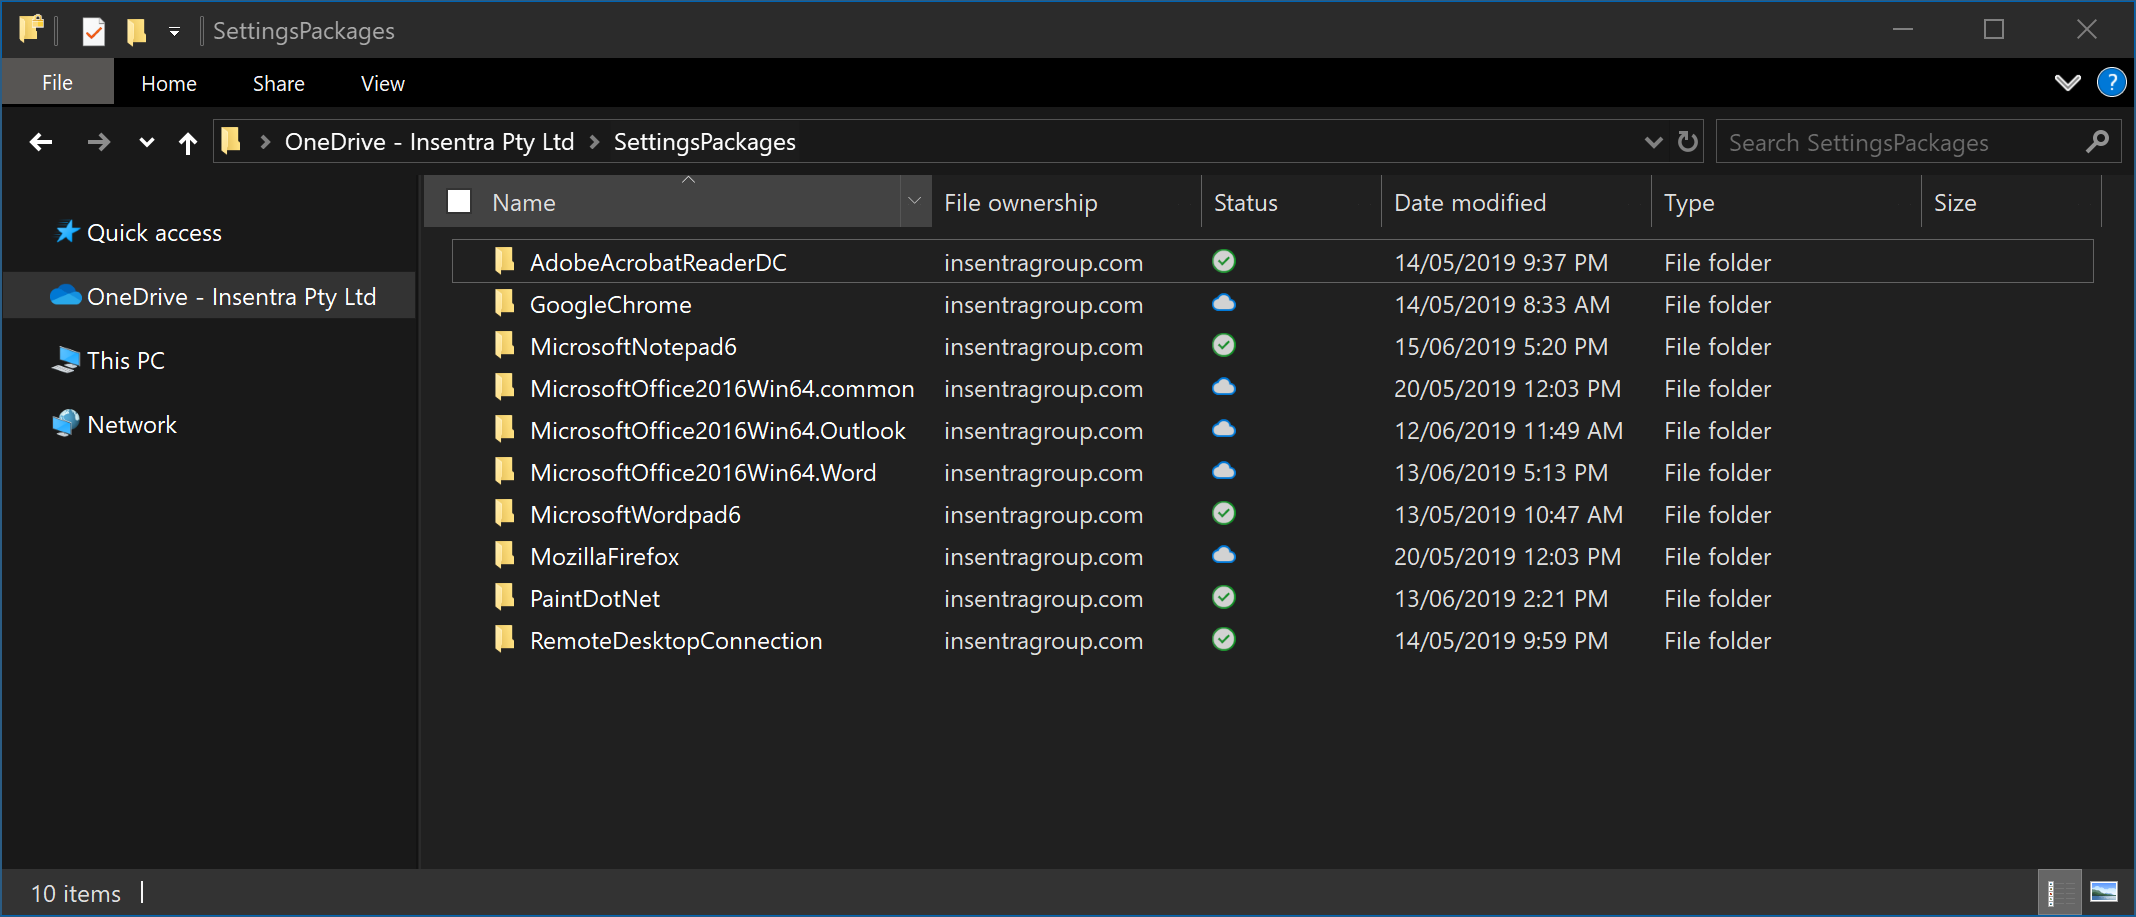
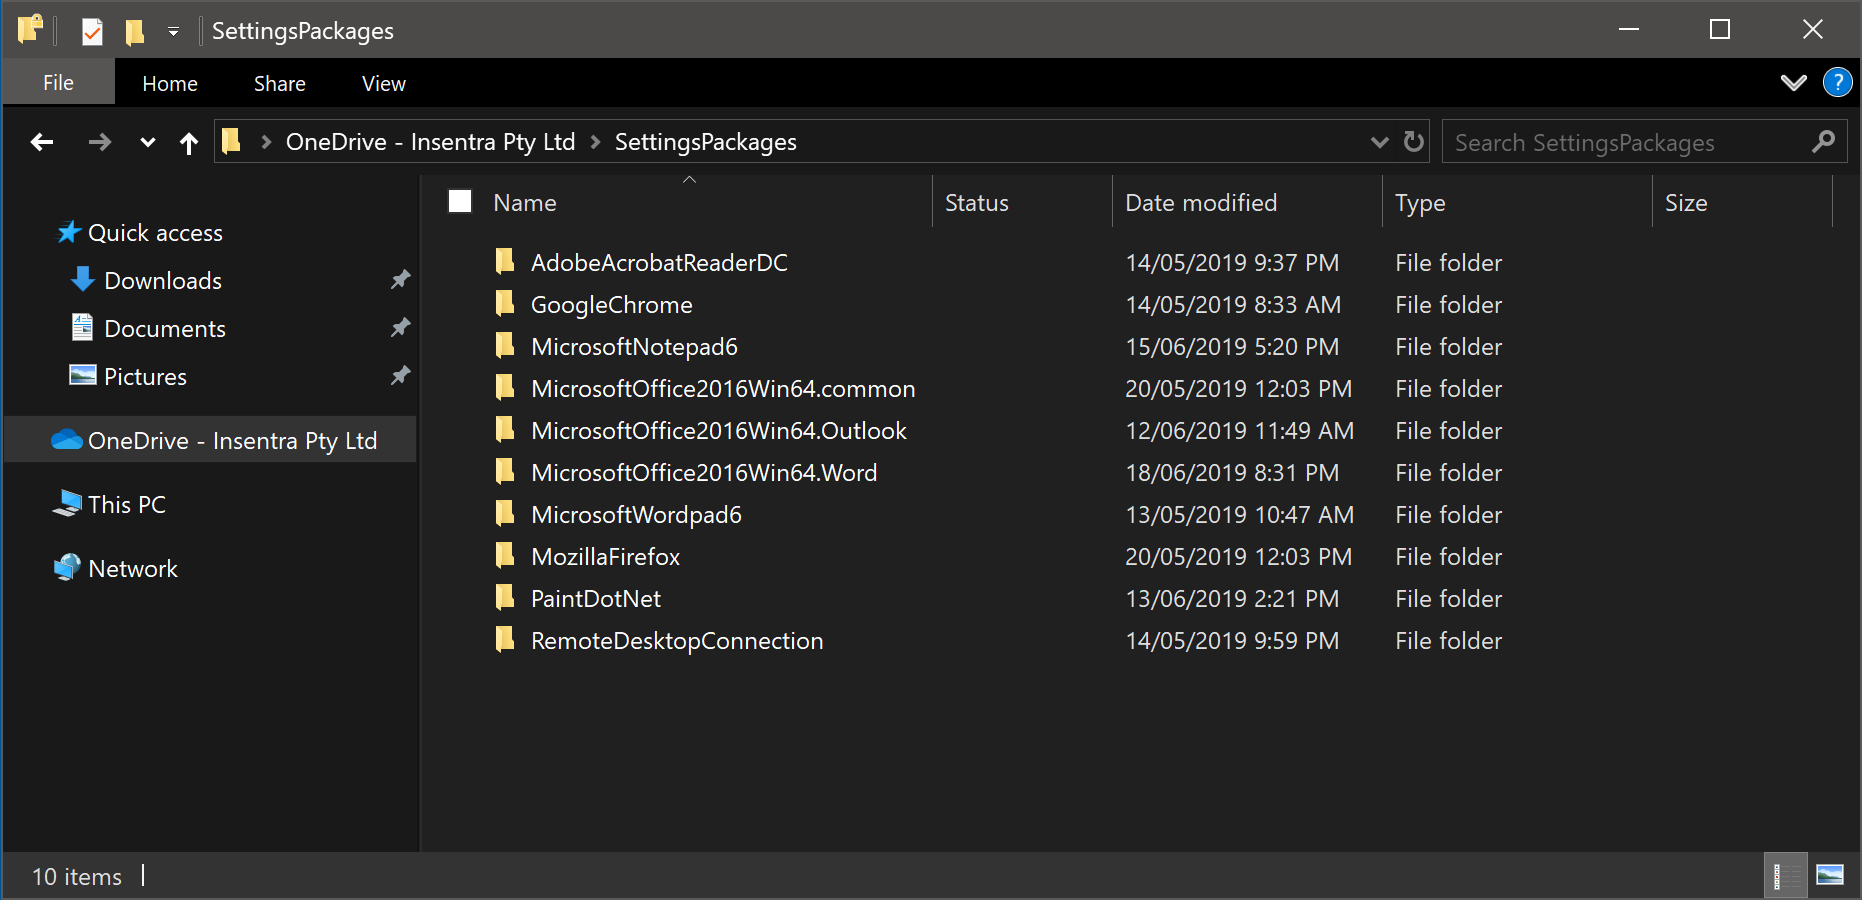
Add UE-V article

diff --git a/_posts/2019-06-18-user-experience-virtualzation-intune.md b/_posts/2019-06-18-user-experience-virtualzation-intune.md
@@ -1,0 +1,155 @@
+---
+layout: post
+title: Manage User Experience Virtualization on the Modern Desktop
+date: 2019-06-19 23:00 +1000
+permalink: "/user-experience-virtualzation-intune/"
+categories:
+- Microsoft
+tags:
+- Intune
+- User Experience Virtualization
+- OneDrive
+- PowerShell
+---
+On the modern Windows 10 desktop with Office 365 and Azure AD Premium, application preferences are roamed by two components - the Office 2013+ desktop applications [roam settings when used with Office 365](https://docs.microsoft.com/en-us/previous-versions/office/office-2013-resource-kit/jj733593\(v=office.15\)#roaming-settings-for-office-2013) and when enabled, Enterprise State Roaming [synchronises specific settings](https://docs.microsoft.com/en-us/azure/active-directory/devices/enterprise-state-roaming-faqs).
+
+Before you ask - yes, [User Experience Virtualization](https://docs.microsoft.com/en-us/windows/configuration/ue-v/uev-for-windows) is still a thing. UE-V is a component of Windows 10 Enterprise that can roam a user's application preferences across desktops. UE-V works by defining user profile locations specific to an application and importing and exporting those settings into and out of the profile at login /logout or application launch / close.
+
+## Why
+
+User-driven device provisioning can make a Windows 10 PC, provisioned via Windows Autopilot, ready for the user in about an hour. This includes their applications, and preferences I've covered above.
+
+When a user signs into a new PC, their key Windows and Office settings will sync, but not preferences for any application that Enterprise State Roaming does not manage.
+
+Application preferences *not* roaming to a newly provisioned PC is likely to be a disruptive experience. User Experience Virtualization can be configured to roam those application settings even in a modern management scenario.
+
+Consider a common example such as Google Chrome. Chrome implements its own sync mechanism via Google accounts, but this often means that users will log into Chrome with their personal Google accounts. Further, Chrome and ChromeOS can be managed via [Chrome Enterprise](https://cloud.google.com/chrome-enterprise/browser-management/) where it is possible to use Azure AD as the IdP source. The browser can then be managed across your PC estate; however, this requires a licensing cost. If Google isn't a strategic play, then UE-V can capture Chrome settings and ensure a consistent experience across managed Windows 10 devices.
+
+## How 
+
+Azure AD-join and Autopilot enable a consistent provisioning experience for Windows 10 PCs regardless of location, but unlike a traditional domain-joined PC, you lose management features including Group Policy. UE-V would typically be [enabled with Group Policy](https://docs.microsoft.com/en-us/windows/configuration/ue-v/uev-deploy-required-features#enable-the-ue-v-service) and [a file share](https://docs.microsoft.com/en-us/windows/configuration/ue-v/uev-deploy-required-features#deploy-a-ue-v-settings-storage-location), but our target PCs are often not used within the corporate network, so synchronising application preferences between PCs requires another mechanism. Additionally we need to re-think enabling UE-V on the end-point and delivering UE-V templates to those devices.
+
+### OneDrive for Business as a Sync Mechanism
+
+Most organisations [we](https://www.insentra.com.au/) see deploying Windows 10 in a modern management context with Microsoft Intune are also Office 365 customers. This naturally makes OneDrive for Business available as a sync mechanism and it's [a solution that Microsoft even mentions in the UE-V documentation](https://docs.microsoft.com/en-us/windows/configuration/ue-v/uev-sync-methods). Any enterprise file and sync solution could be used including Citrix ShareFile or Dropbox.
+
+### Managing UE-V with Microsoft Intune
+
+To manage UE-V on Windows 10 PCs via Microsoft Intune, we need to implement a few things:
+
+1. Windows 10 Enterprise - UE-V is only a feature of Windows 10 Enterprise devices. This might be implemented by Intune via the [Upgrade Windows 10 Edition configuration profile](https://docs.microsoft.com/en-us/intune/edition-upgrade-configure-windows-10) or via a Microsoft 365 / Windows 10 Enterprise E3/E5 license
+2. A PowerShell script to enable the UE-V service and configure a scheduled task to download the UE-V templates
+3. A public HTTPS location to host UE-V templates. In my test configuration, I've used an Azure Storage Account so that I can use the [`List Containers`](https://docs.microsoft.com/en-us/rest/api/storageservices/list-containers2) API to query the storage for the templates to download
+
+To this end, I've written [a script to enable UE-V](https://github.com/aaronparker/Intune-Scripts/tree/master/Uev) on managed PCs and setup [a second script](https://github.com/aaronparker/uev/tree/master/scripts) that runs as a scheduled task to download the UE-V templates.
+
+## Deploy the UE-V script via Intune
+
+`New-UevTask.ps1` has been written to initiate the deployment by downloading a second script from blob storage on an Azure Storage account and register a scheduled task that runs the second script to download the UE-V templates.
+
+Deploy the script from Intune and ensure that it runs in the System context:
+
+![Adding the UE-V deployment script via Intune]({{site.baseurl}}/media/2019/06/UevPowerShellScriptIntune.png)
+
+`New-UevTask.ps1` has a `-Uri` parameter that will need to be changed to target a storage account that you manage.
+
+When the script runs on an end-point, it will register the schedule task and run it so that UE-V is enabled.
+
+## UE-V Scheduled Task
+
+`Set-Uev.ps1` is executed by the scheduled task and ensures that the UE-V service is running, configures UE-V to use OneDrive as the sync engine and downloads a set of UE-V templates from blob storage on an Azure Storage account.
+
+`Set-Uev.ps1` also has a `-Uri` parameter that will need to be changed to target a storage account that you manage, that hosts your UE-V templates.
+
+The scheduled task will be located in `Microsoft\UEV` folder:
+
+![UE-V Scheduled Task]({{site.baseurl}}/media/2019/06/UevScheduledTask.png)
+
+The challenge with this approach is that the UE-V service requires a reboot after being enabled. Because PowerShell scripts are not currently [tracked by the Enrollment Status Page](https://docs.microsoft.com/en-us/windows/deployment/windows-autopilot/enrollment-status#installation-progress-tracking), the service will only be enabled after the user signs into the device. An alternative approach would be to create a custom Windows Installer package that enables the service and the scheduled task instead.
+
+## UE-V via OneDrive
+
+The UE-V configuration settings enabled by `Set-Uev.ps` have been sourced from [Settings and data roaming FAQ](https://docs.microsoft.com/en-us/azure/active-directory/devices/enterprise-state-roaming-faqs) and [Set-UevConfiguration](https://docs.microsoft.com/en-us/powershell/module/uev/set-uevconfiguration?view=win10-ps).
+
+| Setting | Value | Notes |
+|:--|:--|:--|
+| Computer | True | Applies the settings to all users on the computer. |
+| DisableSyncProviderPing | True | Disables the synchronization provider from pinging the network. Not needed for OneDrive.  |         
+| DisableSyncUnlistedWindows8Apps | True | Disables the synchronization of unlisted Windows Store apps. Assuming ESR is used |
+| EnableDontSyncWindows8AppSettings | True | UE-V does not synchronize Windows Store app settings. Assuming ESR is used |
+| EnableSettingsImportNotify | True | If the settings import takes longer than the amount of time that you specify for the SettingsImportNotifyDelayInSecond parameter, UE-V notifies the user |
+| EnableSync | True | UE-V synchronizes the settings that are defined in the settings location templates that you have enabled |
+| EnableWaitForSyncOnApplicationStart | True | Ensures that application settings are synced locally and imported before starting the app |
+| SettingsStoragePath | %OneDriveCommercial% | Specifies the path of the location where UE-V stores the user settings |
+| SyncMethod | External | Tells UE-V that OneDrive will manage sync |
+| WaitForSyncTimeoutInMilliseconds | 2000 | This is the default wait timeout value. Test various network scenarios before increasing |
+
+With `%OneDrive%` or `%OneDriveCommercial%` as the target UE-V Settings Storage Path, the user's OneDrive sync folder will host a `SettingsPackages` folder that contains application settings.
+
+![UE-V Settings Packages folder in OneDrive]({{site.baseurl}}/media/2019/06/UevSettingsInOneDrive.png)
+
+With OneDrive Files On Demand, settings packages will download as applications are launched. The folder can be set to [always offline with the `attrib` command](https://techcommunity.microsoft.com/t5/Microsoft-OneDrive-Blog/OneDrive-Files-On-Demand-For-The-Enterprise/ba-p/117234).
+
+## Continuous Deployment to Azure Blob Storage
+
+As a location for storing scripts and UE-V templates, Azure Blob storage enables us to create a continuous deployment solution for new UE-V templates and updates to the `Set-Uev.ps1` script.
+
+To perform some basic validation and upload templates and scripts to Azure blob storage, I've setup a continuous deployment solution using GitHub and AppVeyor. You can see how this process works by taking look at my [UE-V repository on GitHub](https://github.com/aaronparker/uev).
+
+The code in the repository manages the process via several components:
+
+1. [Templates](https://github.com/aaronparker/uev/tree/master/templates). These are the UE-V templates that define application settings, created with the [UE-V Generator](https://docs.microsoft.com/en-us/windows/configuration/ue-v/uev-working-with-custom-templates-and-the-uev-generator).
+2. [`Set-Uev.ps1`](https://github.com/aaronparker/uev/tree/master/scripts). The script that enables UE-V and downloads templates on the Windows 10 Enterprise end-point
+3. [AppVeyor project configuration file](https://github.com/aaronparker/uev/blob/master/appveyor.yml). This defines the [AppVeyor project](https://www.appveyor.com/docs/build-configuration/) that runs validation on the UE-V templates and the `Set-Uev.ps1`. If validation is successful, the [artefacts are uploaded to Azure](https://www.appveyor.com/docs/deployment/azure-blob/)
+4. [Tests](https://github.com/aaronparker/uev/tree/master/tests). AppVeyor executes a set of PowerShell scripts that run Pester tests on `Set-Uev.ps1` and validates the UE-V templates against the [schema](https://docs.microsoft.com/en-us/windows/configuration/ue-v/uev-application-template-schema-reference)
+
+Each time a commit and push is made to the repository, [AppVeyor will run tests to validate](https://ci.appveyor.com/project/aaronparker/uev) the templates and script and if successful, upload to Azure blog storage.
+
+![AppVeyor tests output]({{site.baseurl}}/media/2019/06/AppVeyorOutput.png)
+
+### Azure Blob Storage Configuration
+
+For this configuration, I've created an [Azure storage account](https://docs.microsoft.com/en-us/azure/storage/common/storage-account-overview) to store the files on [blob storage](https://docs.microsoft.com/en-us/azure/storage/blobs/storage-blobs-introduction). Microsoft provides [5 GB of blob storage free for 12-months](https://azure.microsoft.com/en-gb/free/free-account-faq/), so it's simple to get started.
+
+In my lab environment, I've created two containers - one for the UE-V templates and another to store scripts. 
+
+![Azure blob storage containers]({{site.baseurl}}/media/2019/06/AzureBlobContainers.png)
+
+[Anonymous read access](https://docs.microsoft.com/en-us/azure/storage/blobs/storage-manage-access-to-resources) is enabled on each of these containers, so that `Set-Uev.ps1` and the UE-V templates can be downloaded on end-points, without having to storage secure access keys in each PowerShell script. 
+
+![Azure blob storage container access level configuration]({{site.baseurl}}/media/2019/06/AzureBlobContainerAccessLevel.png) 
+
+To allow AppVeyor to upload to these containers, storage account [access keys can be encrypted](https://www.appveyor.com/docs/how-to/secure-files/). My `appveyor.yml` file contains provider settings that define the Azure blob storage containers and the secured access keys.
+
+```yaml
+- provider: AzureBlob
+  storage_account_name: stealthpuppy
+  storage_access_key:
+    secure: No4/BI8lrkv/775GwkL82PPYuaX1hzYa
+  container: uevtemplates
+  artifact: templates
+  unzip: true
+  set_content_type: true
+  on:
+    branch: master
+- provider: AzureBlob
+  storage_account_name: stealthpuppy
+  storage_access_key:
+    secure: No4/BI8lrkv/775GwkL82PPYuaX1hzYa
+  container: scripts
+  artifact: scripts
+  unzip: true
+  set_content_type: false
+  on:
+    branch: master
+```
+
+## Summary
+
+In this article I've outlined an approach to roaming additional application settings on a Windows 10 modern desktop with User Experience Virtualization and OneDrive for Business.
+
+While Office 365 ProPlus and Windows 10 provides their own mechanisms for roaming user preferences, UE-V can roam preferences for those additional applications that matter to your users. Alternatively, UE-V could handle roaming of all Windows and application settings if you're not keen to use those cloud-native features.
+
+The PowerShell scripts I've provided can be [used with Microsoft Intune](https://docs.microsoft.com/en-us/intune/intune-management-extension) or a 3rd party management tool. Additionally, 3rd party sync tools (e.g., ShareFile or Dropbox) should also work.
+
+In a future article how UE-V can be used to provide a consistent application experience across physical and virtual desktops.
